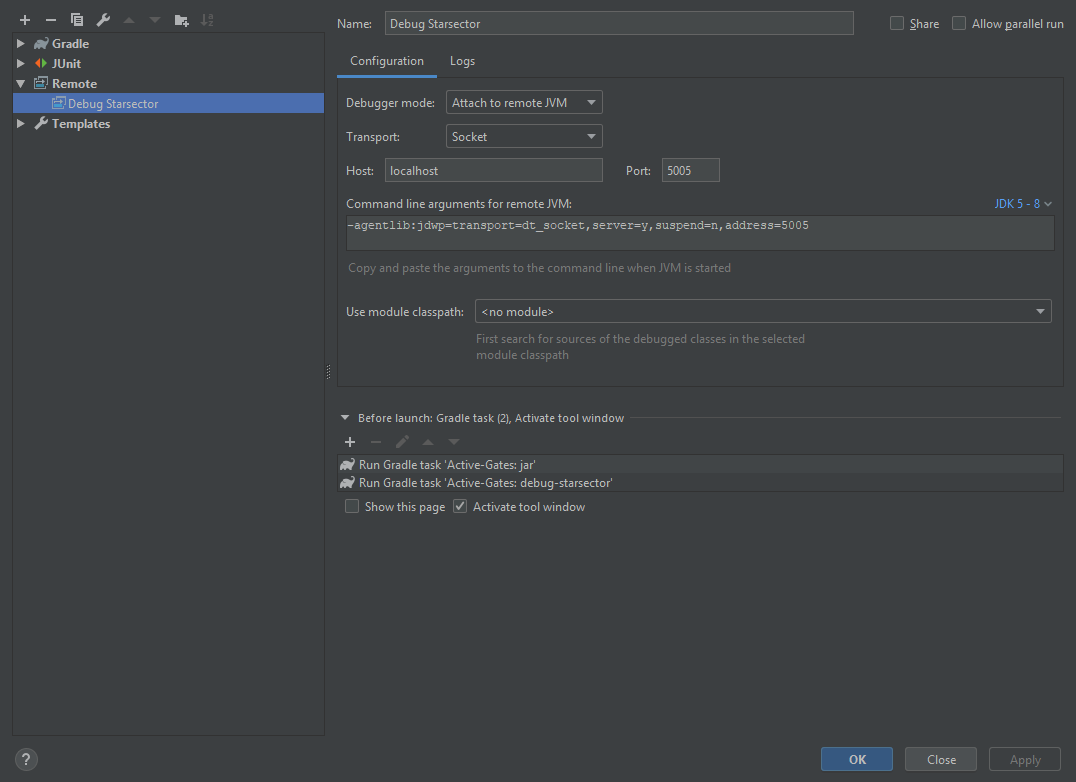
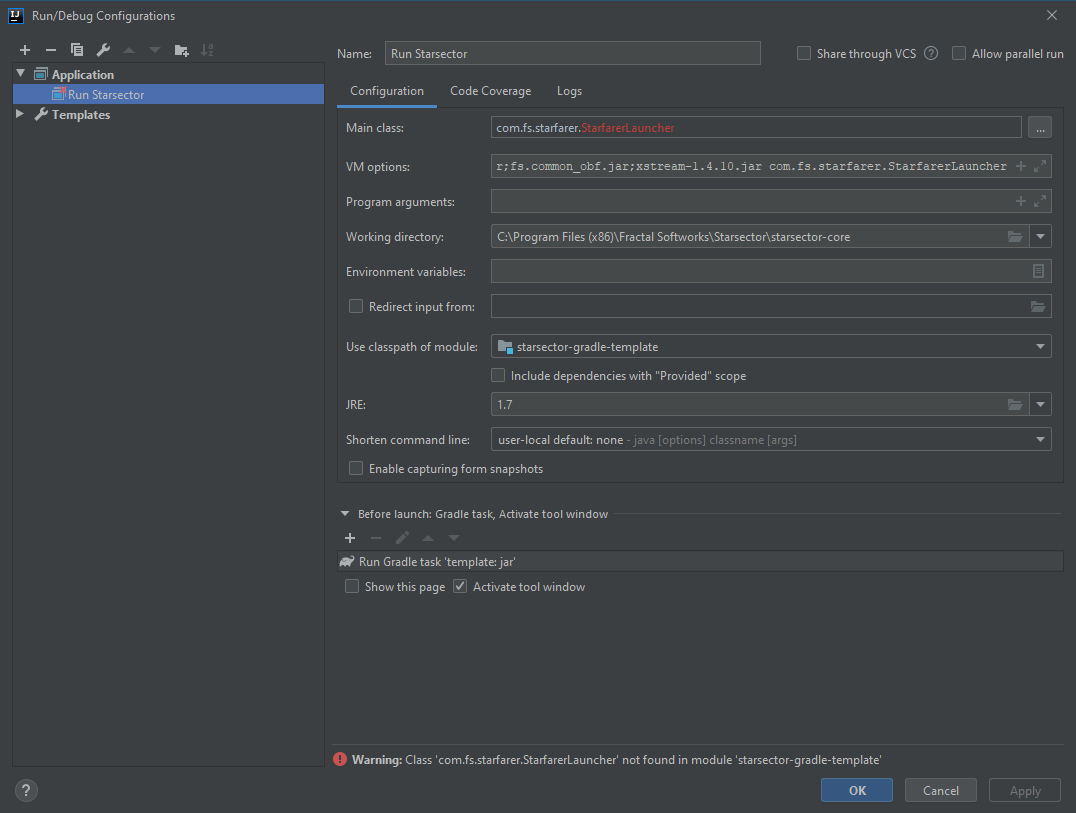
Updates to readme for a more reliable debug flow.

diff --git a/README.md b/README.md
@@ -10,7 +10,7 @@ One of the main goals is to move as much of the build process out of IntelliJ as
 
 Another goal is to have more project configuration as code, rather than IDE-specific files. That way, they'll get versioned (and be shared, as mentioned).
 
-Written for IntelliJ Community. Latest version is 2018.3.4 as of writing.
+Written for IntelliJ Community. Latest version is 2019.2.3 as of writing.
 
 ## Initial Setup Checklist
 
@@ -24,7 +24,7 @@ Written for IntelliJ Community. Latest version is 2018.3.4 as of writing.
     - `starfarer-api-1.0.jar` (renamed from `starfarer.api.jar`)
     - `starfarer-api-1.0.pom` (already present)
     - `starfarer-api-1.0-sources.jar` (renamed from `starfarer-api-1.0-sources.jar`)
-  - **IMPORTANT! DO NOT SHARE THOSE TWO JAR FILES.** Do not distribute them with your mod. Do not commit them to git (they're in the `.gitignore`). Sharing them is illegal.
+  - **IMPORTANT! DO NOT SHARE THOSE TWO JAR FILES.** Do not distribute them with your mod. Do not commit them to git (they're in the `.gitignore`). Sharing them is violating copyright and might make Alex sad.
 - Change the project and package names to be specific to you:
   - [ ] The easiest way might be to, in IntelliJ, open up `src/main/kotlin/com/example/template`, right-click on the first line (`package com.example.template`) and go to `Refactor - Rename`. From there, you may rename `com.example.template` to anything. If it pops up a refactoring preview, keep everything selected and click `Do Refactor`. 
   - [x] We want to, in `settings.gradle`, change `rootProject.name = 'template'` to be equal to your new name instead (the rename we just did should have already done that).
@@ -45,44 +45,21 @@ Written for IntelliJ Community. Latest version is 2018.3.4 as of writing.
 
 ### Set up one-click run and debug:
 
-Follow the first two steps of *Ava_N*'s excellent tutorial here: http://fractalsoftworks.com/forum/index.php?topic=10057.msg220052#msg220052, copied and edited here in case the link goes dead.
+- In IntelliJ, click `Run - Edit Configurations`, click the `+` in the top-left and choose "Application".
+- Name it "Run Starsector" (or similar)
+- Main class: "com.fs.starfarer.StarfarerLauncher"
+- VM Options: ` -agentlib:jdwp=transport=dt_socket,server=y,suspend=y,address=5005 -Djava.library.path=native\windows -Xms1536m -Xmx1536m -Xss1024k -Dcom.fs.starfarer.settings.paths.logs=. -Dcom.fs.starfarer.settings.paths.saves=../saves -Dcom.fs.starfarer.settings.paths.screenshots=../screenshots -Dcom.fs.starfarer.settings.paths.mods=../mods -classpath janino.jar;commons-compiler.jar;commons-compiler-jdk.jar;starfarer.res.jar;starfarer.api.jar;starfarer_obf.jar;jogg-0.0.7.jar;jorbis-0.0.15.jar;json.jar;lwjgl.jar;lwjgl_util_applet.jar;jinput.jar;lwjgl_test.jar;log4j-1.2.9.jar;lwjgl_util.jar;fs.sound_obf.jar;fs.common_obf.jar;xstream-1.4.10.jar com.fs.starfarer.StarfarerLauncher`
+- Working directory: `C:\Program Files (x86)\Fractal Softworks\Starsector\starsector-core`, or wherever your `starsector-core` folder is.
+- Classpath: use your mod's ("starsector-gradle-template", by default)
+- In the "Configuration" tab, in the "Before Launch" tab at the bottom, click "+" and "Run Gradle Task". Choose your gradle project (eg "template"), and for task, choose "jar".
+- Click Ok. You should now be able to choose Run Starsector from the Run menu and then click the Debug button (it's a bug) 
+- Don't forget to enable your mod on the Starsector launch dialog!
 
-```text
-1. Make a copy of your starsector-core/starsector.bat file and call it "debug-starsector.bat" (replace .bat with .sh for linux). This is not strictly necessary but highly recommended in case the bat file gets messed up.
-
-2. Open the bat file and configure Java to start in a new process and open a debugger port. The "suspend=y" arg in there makes the JVM not run until a debugger actually connects.
-
-Windows:
-start ..\jre\bin\java.exe -agentlib:jdwp=transport=dt_socket,server=y,suspend=y,address=5005 <everything that comes after "java.exe" in the original file>
-
-Linux:
-..\jre\bin\java.exe -agentlib:jdwp=transport=dt_socket,server=y,suspend=y,address=5005 <everything that comes after "java.exe" in the original file> &
-
-Don't forget the & at the end, it's what makes the command run in a separate process.
-```
-
-The rest of the steps have been condensed into one, thanks to Gradle.
-
-- Add the one-click run to IntelliJ, which will first build our mod, then launch Starsector in debug mode, and finally attach our debugger to it:
-  - In IntelliJ, click `Run - Edit Configurations`, click the `+` in the top-left and choose "Remote".
-  - Name it "Debug Starsector" (or similar)
-  - In the "Configuration" tab, in the "Before Launch" tab at the bottom, click "+" and "Run Gradle Task". Choose your gradle project (eg "template"), and for task, choose "jar".
-  - Do the same thing but for the task, write "debug-starsector".
-  - *optional* In the Logs tab, hit "+" in the top right and browse to your starsector.log file (should be in starsector-core). Alias it whatever you want, but "starsector.log" is probably a good idea.
-  - Click Ok. You should now be able to choose Debug Starsector from the Run menu and have it debug Starsector with your mod (don't forget to enable your mod within Starsector).
-
-*Example for the "Active Gates" mod*
+*Example for this template*
 ![Final Run Configuration](screenshots/runConfig.png "Final Run Configuration")
-
-## Building The Code
-
-1. Open `build.gradle.kts` in a text editor and change `starsectorDirectory` to point to the location of Starsector on your hard drive.
-2. In the same file, comment out `exclude("starfarer.api.jar")`. You won't be able to see sources from within IntelliJ, but the mod will compile.
-3. Run `./gradlew jar` from the mod folder (`gradlew.bat jar` on Windows).
-   - You must have Java installed to run this step.
 
 ## Other
 
-Author: Wispborne
+Author: Wispborne (Wisp#0302 on the Unofficial Starsector Discord)
 
 License: [Unlicense](https://github.com/davidwhitman/starsector-mod-template/blob/master/LICENSE)
